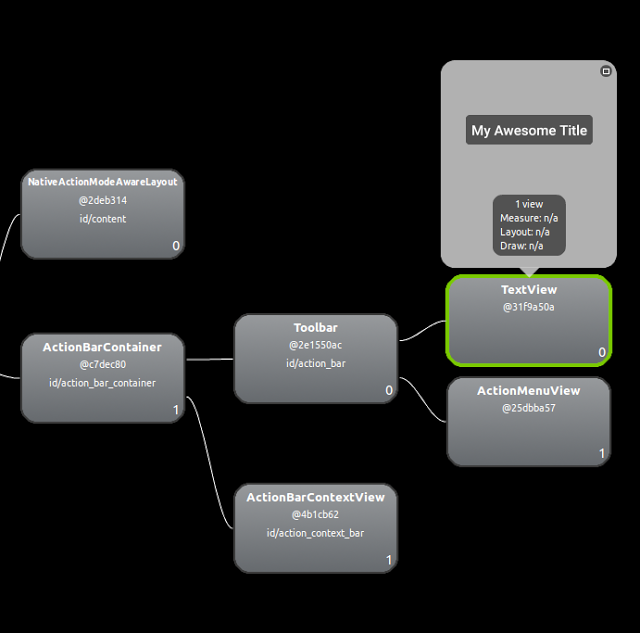
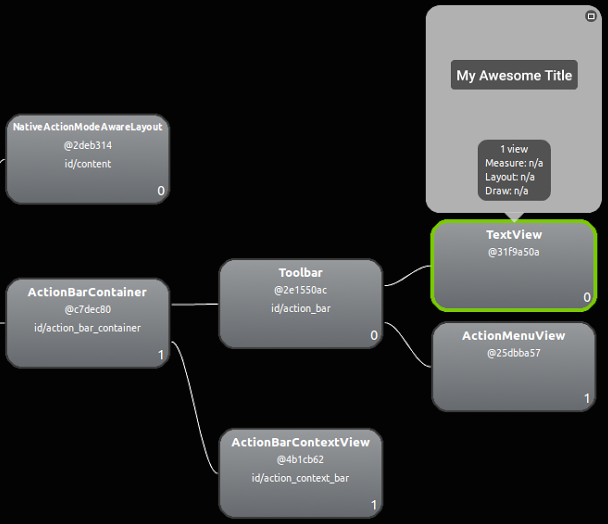
Trip hierarchy viewer screenshot

Changed region(s): [[0.0, 0.0, 1.0, 1.0], [0.0, 0.2137, 0.3125, 0.4275]]

diff --git a/advanced-android-espresso/index.html b/advanced-android-espresso/index.html
@@ -267,7 +267,7 @@ alt="click tracking"></a></div></noscript>
         <section>
           <h2>Hierarchy Viewer</h2>
           <div class="row">
-            <img width="640" height="663" src="../images/advanced-android-espresso/hierarchy_viewer.png" alt="Hierarchy Viewer">
+            <img style="border: none" width="608" height="524" src="../images/advanced-android-espresso/hierarchy_viewer.png" alt="Hierarchy Viewer">
           </div>
         </section>
 
